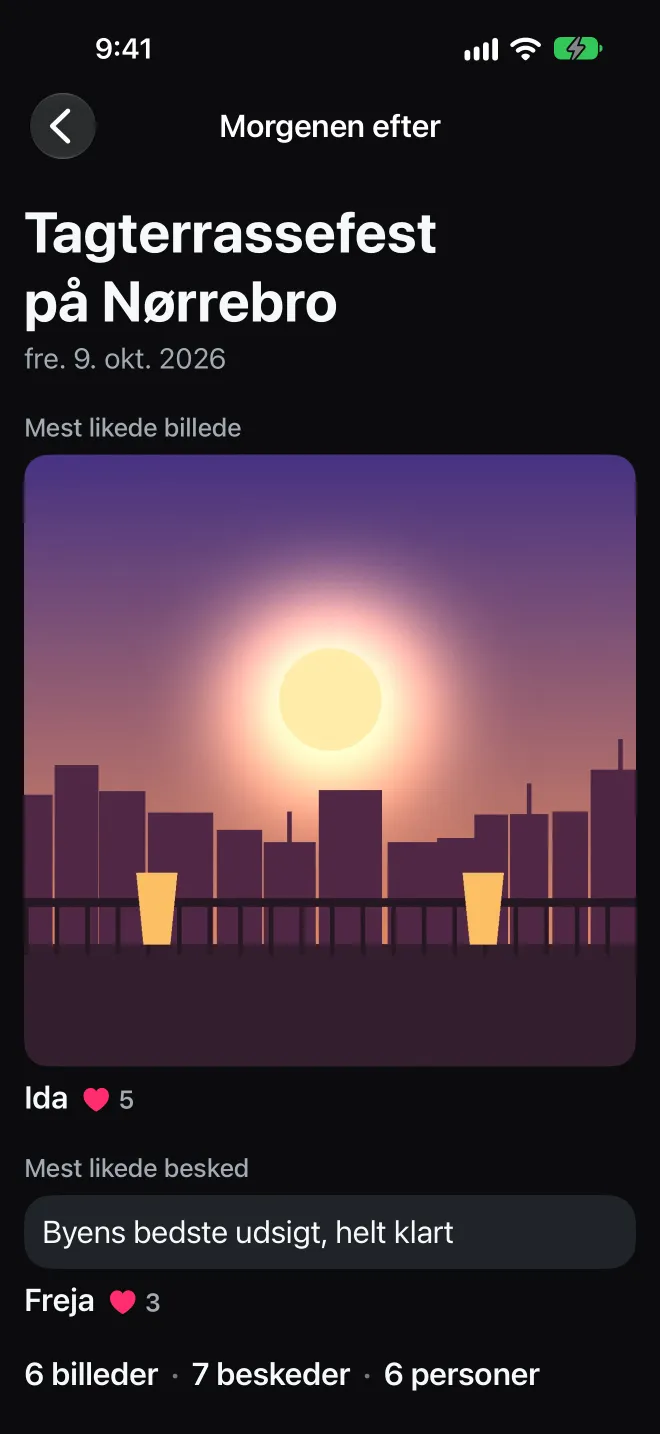
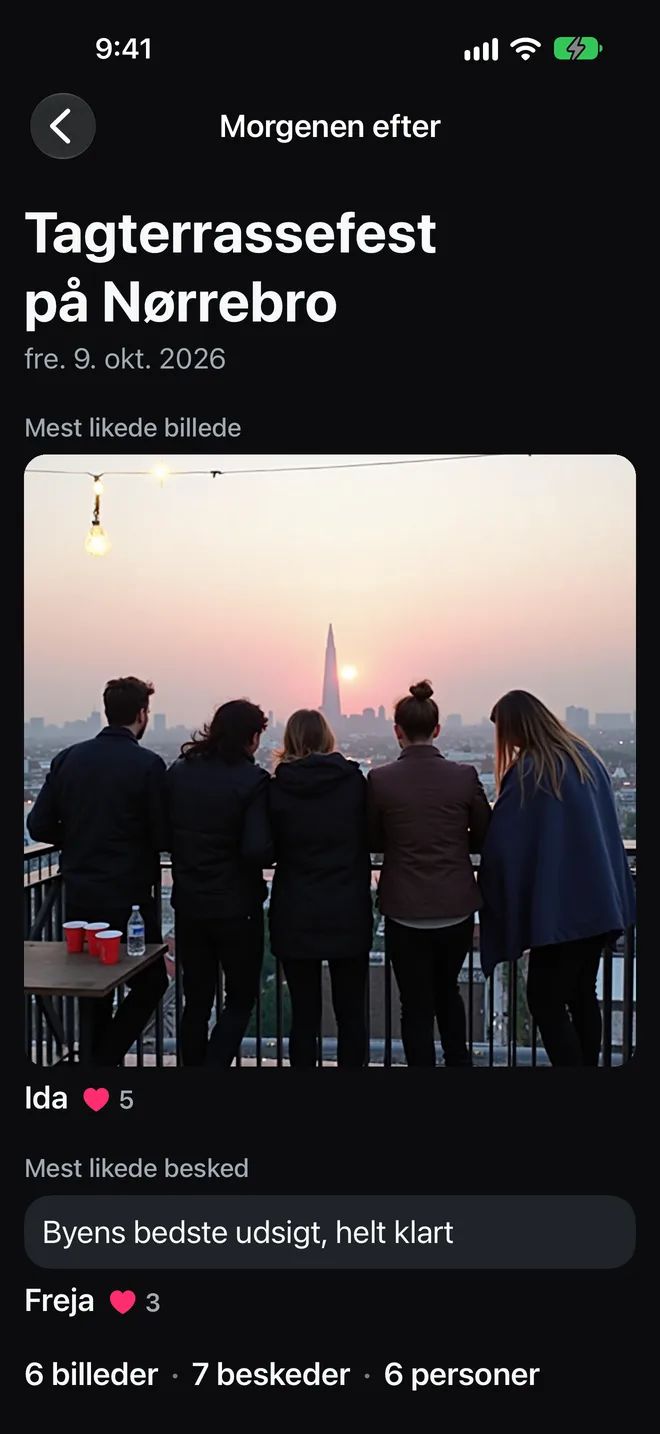
Hero: a real rooftop photo in the morning-after screen, in a real iPhone frame (#57)
The app's demo screenshot showed a drawn placeholder as the "most liked photo". It is now a
photo generated with FLUX.1 dev (a rooftop in Peckham at sunrise, matching the screen's
"Rooftop Party in Peckham"), placed into the summary screen in all five languages. The hero
shows that screen in an iPhone 17 Pro Max frame (jamesjingyi/mockup-device-frames) instead of
a CSS edge.

Claude-Session: https://claude.ai/code/session_013M2twKapYY38Pgf4cLJcsH

diff --git a/src/lib/screens.test.ts b/src/lib/screens.test.ts
@@ -4,7 +4,7 @@ import { locales } from "./i18n";
 
 // The pages show the app's real screens in the visitor's language (public/app/<locale>/), copied
 // from the app's App Store screenshots (after-stories/fastlane/screenshots/raw/<locale>/).
-const screens = ["plan", "live", "summary", "save", "private"];
+const screens = ["plan", "live", "summary", "summary-phone", "save", "private"];
 
 describe("app screens", () => {
   it.each(locales.map((l) => [l] as const))("[%s] has every screen the pages show", (locale) => {
